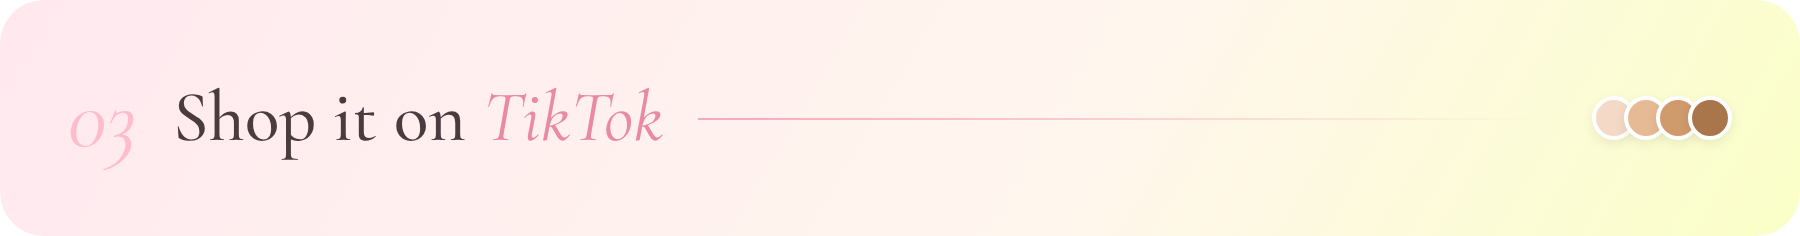
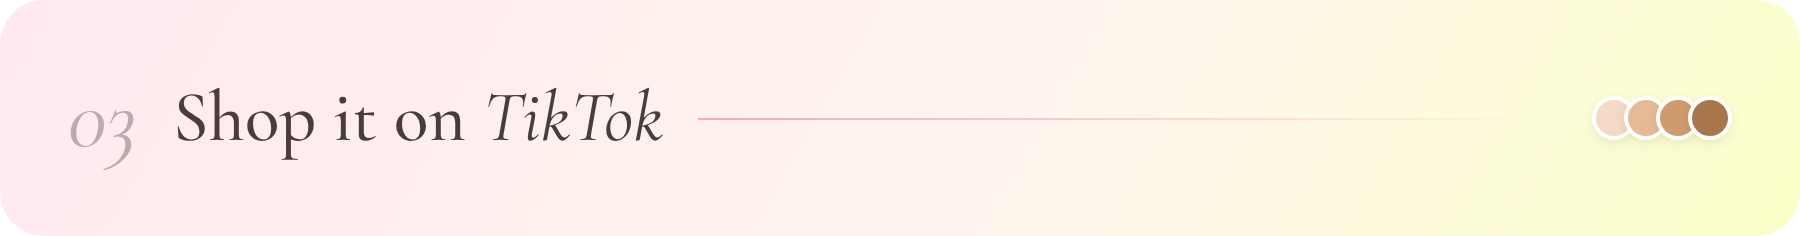
Redesign README with Prism & Piel branding and dark mode

Changed region(s): [[0.2489, 0.3856, 0.3733, 0.5932], [0.0311, 0.4746, 0.0933, 0.6525]]

diff --git a/docs/readme/source/boards.html b/docs/readme/source/boards.html
@@ -86,6 +86,25 @@ body{background:transparent;font-family:var(--sans);color:var(--charcoal);paddin
 #footer h4{font-family:var(--serif);font-weight:500;font-size:34px}
 #footer h4 em{color:var(--pink-500);font-weight:400}
 #footer small{display:block;color:var(--soft);font-size:12.5px;margin-top:10px;letter-spacing:.04em}
+
+/* ---- no pink text: accents and kickers use the normal text colors ---- */
+.kicker{color:var(--soft)}
+#banner h1 em,.sec h2 em,#tiktok h3 em,#footer h4 em{color:inherit}
+.sec .num{color:var(--faint)}
+#banner .nav b{color:var(--charcoal)}
+
+/* ---- dark theme (for GitHub dark mode) ---- */
+body.dark{--charcoal:#F5ECEE;--soft:#CDBBC0;--faint:#8F7E83;--line:rgba(255,255,255,.10);--paper:#2A2125}
+body.dark #banner,body.dark #tiktok,body.dark #footer,body.dark .frame{background:linear-gradient(135deg,#33252B 0%,#2A2125 55%,#2E2C24 100%)}
+body.dark .sec{background:linear-gradient(120deg,#33252B,#2A2125 60%,#2E2C24)}
+body.dark .blob{opacity:.22}
+body.dark .pill.ghost{background:transparent;border-color:rgba(255,255,255,.22);color:var(--soft)}
+body.dark #banner .nav b{background:rgba(255,255,255,.08)}
+body.dark #banner .chip{color:#4A3B3F}
+body.dark #banner .chip small{color:#8C7B80}
+body.dark #tiktok .brands span{background:rgba(255,255,255,.05);border-color:rgba(248,168,185,.35);color:var(--charcoal)}
+body.dark .frame .win,body.dark #tiktok .shot{box-shadow:0 30px 60px -24px rgba(0,0,0,.8)}
+body.dark .sw span{border-color:#2A2125}
 </style></head><body>
 
 <!-- 1 -->

diff --git a/docs/readme/source/export.js b/docs/readme/source/export.js
@@ -1,11 +1,11 @@
 const { chromium } = require('playwright');
-const [,, src, out] = process.argv;
+const [,, src, out, theme] = process.argv; const sfx = theme === 'dark' ? '-dark' : '';
 (async () => {
   const b = await chromium.launch(); const p = await b.newPage({ viewport: { width: 1000, height: 900 }, deviceScaleFactor: 2 });
-  await p.goto('file://' + src); await p.waitForLoadState('networkidle'); await p.evaluate(() => document.fonts.ready); await p.waitForTimeout(500);
+  await p.goto('file://' + src); await p.waitForLoadState('networkidle'); if (theme === 'dark') await p.evaluate(() => document.body.classList.add('dark')); await p.evaluate(() => document.fonts.ready); await p.waitForTimeout(500);
   console.log('fonts', await p.evaluate(() => document.fonts.check('500 40px "Cormorant Garamond"') && document.fonts.check('300 15px Jost')));
   const map = { banner:'banner', 'h-why':'h-why','h-how':'h-how','h-1':'step-1','h-2':'step-2','h-3':'step-3','h-more':'h-browse','h-db':'h-database',
     'f-profiles':'profiles','f-matches':'matches','f-catalog':'catalog','f-home':'home', tiktok:'tiktok-shop', footer:'footer' };
-  for (const [id, name] of Object.entries(map)) await p.locator('#' + id).screenshot({ path: out + '/' + name + '.png', omitBackground: true });
+  for (const [id, name] of Object.entries(map)) await p.locator('#' + id).screenshot({ path: out + '/' + name + sfx + '.png', omitBackground: true });
   await b.close();
 })();

diff --git a/README.md b/README.md
@@ -1,55 +1,92 @@
 <div align="center">
 
-<img src="docs/readme/banner.png" alt="Prism & Piel: Find the shade that was made for your skin" width="100%">
-
-<br>
-
 ![TikTok Shop](https://img.shields.io/badge/Shop_on-TikTok_Shop-E98AA0?style=for-the-badge&logo=tiktok&logoColor=white)
 ![MySQL](https://img.shields.io/badge/MySQL-4A3B3F?style=for-the-badge&logo=mysql&logoColor=white)
 ![Node.js](https://img.shields.io/badge/Node.js-4A3B3F?style=for-the-badge&logo=nodedotjs&logoColor=white)
 ![Express](https://img.shields.io/badge/Express-4A3B3F?style=for-the-badge&logo=express&logoColor=white)
 
+<picture>
+  <source media="(prefers-color-scheme: dark)" srcset="docs/readme/banner-dark.png">
+  <img src="docs/readme/banner.png" alt="Prism & Piel: Find the shade that was made for your skin" width="100%">
+</picture>
+
 </div>
 
 <br>
 
-<img src="docs/readme/h-why.png" alt="Why Prism & Piel" width="100%">
+<picture>
+  <source media="(prefers-color-scheme: dark)" srcset="docs/readme/h-why-dark.png">
+  <img src="docs/readme/h-why.png" alt="Why Prism & Piel" width="100%">
+</picture>
 
 Most shade finders are built for Western skin and global brands. Filipino skin lives in the light-to-tan range with warm, neutral and olive undertones, and the brands we actually buy are sold on TikTok Shop. **Prism & Piel matches you to those shades and sends you straight to the listing.**
 
 <br>
 
-<img src="docs/readme/h-how.png" alt="How it works" width="100%">
+<picture>
+  <source media="(prefers-color-scheme: dark)" srcset="docs/readme/h-how-dark.png">
+  <img src="docs/readme/h-how.png" alt="How it works" width="100%">
+</picture>
 
-<img src="docs/readme/step-1.png" alt="01 Save your skin" width="100%">
+<picture>
+  <source media="(prefers-color-scheme: dark)" srcset="docs/readme/step-1-dark.png">
+  <img src="docs/readme/step-1.png" alt="01 Save your skin" width="100%">
+</picture>
 
 Skintone, undertone, skin type and finish. Keep a profile for every look, like an Everyday Look and a Glam Night.
 
-<img src="docs/readme/profiles.png" alt="Skin profiles page" width="100%">
+<picture>
+  <source media="(prefers-color-scheme: dark)" srcset="docs/readme/profiles-dark.png">
+  <img src="docs/readme/profiles.png" alt="Skin profiles page" width="100%">
+</picture>
 
-<img src="docs/readme/step-2.png" alt="02 Get matched" width="100%">
+<picture>
+  <source media="(prefers-color-scheme: dark)" srcset="docs/readme/step-2-dark.png">
+  <img src="docs/readme/step-2.png" alt="02 Get matched" width="100%">
+</picture>
 
 Pick a profile and Prism & Piel ranks every shade that fits your undertone and finish.
 
-<img src="docs/readme/matches.png" alt="Find My Shade results" width="100%">
+<picture>
+  <source media="(prefers-color-scheme: dark)" srcset="docs/readme/matches-dark.png">
+  <img src="docs/readme/matches.png" alt="Find My Shade results" width="100%">
+</picture>
 
-<img src="docs/readme/step-3.png" alt="03 Shop it on TikTok" width="100%">
+<picture>
+  <source media="(prefers-color-scheme: dark)" srcset="docs/readme/step-3-dark.png">
+  <img src="docs/readme/step-3.png" alt="03 Shop it on TikTok" width="100%">
+</picture>
 
-<img src="docs/readme/tiktok-shop.png" alt="Shop on TikTok: every product links to its TikTok Shop listing through an affiliate link" width="100%">
+<picture>
+  <source media="(prefers-color-scheme: dark)" srcset="docs/readme/tiktok-shop-dark.png">
+  <img src="docs/readme/tiktok-shop.png" alt="Shop on TikTok: every product links to its TikTok Shop listing through an affiliate link" width="100%">
+</picture>
 
 <br>
 
-<img src="docs/readme/h-browse.png" alt="Browse freely" width="100%">
+<picture>
+  <source media="(prefers-color-scheme: dark)" srcset="docs/readme/h-browse-dark.png">
+  <img src="docs/readme/h-browse.png" alt="Browse freely" width="100%">
+</picture>
 
 No account needed. Filter by category or brand, swipe through every shade, and shop. Sign in and your home page shows your top picks.
 
-<img src="docs/readme/catalog.png" alt="Product catalog" width="100%">
+<picture>
+  <source media="(prefers-color-scheme: dark)" srcset="docs/readme/catalog-dark.png">
+  <img src="docs/readme/catalog.png" alt="Product catalog" width="100%">
+</picture>
 
-<img src="docs/readme/home.png" alt="Home page with top shade picks" width="100%">
+<picture>
+  <source media="(prefers-color-scheme: dark)" srcset="docs/readme/home-dark.png">
+  <img src="docs/readme/home.png" alt="Home page with top shade picks" width="100%">
+</picture>
 
 <br>
 
-<img src="docs/readme/h-database.png" alt="A database project" width="100%">
+<picture>
+  <source media="(prefers-color-scheme: dark)" srcset="docs/readme/h-database-dark.png">
+  <img src="docs/readme/h-database.png" alt="A database project" width="100%">
+</picture>
 
 Prism & Piel runs on a relational MySQL database. Products, shades, skin profiles, reviews, recommendations and TikTok Shop links live in **7 normalized tables**, and the shade matching is a single SQL query.
 
@@ -117,4 +154,7 @@ Open http://localhost:3000 and sign in with `demo@prism.ph` / `demo`.
 
 <br>
 
-<img src="docs/readme/footer.png" alt="Prism & Piel: made for every undertone" width="100%">
+<picture>
+  <source media="(prefers-color-scheme: dark)" srcset="docs/readme/footer-dark.png">
+  <img src="docs/readme/footer.png" alt="Prism & Piel: made for every undertone" width="100%">
+</picture>
